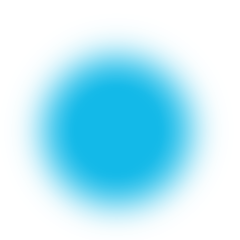
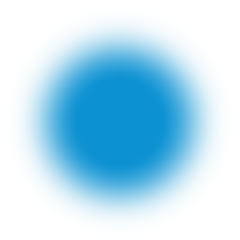
Add sliding ocean surface animation; Add wobble animation to entities; Adjust ocean depths PNGs; Add Midnight Zone/Ocean Bottom;

diff --git a/js/script.js b/js/script.js
@@ -6,6 +6,8 @@ document.addEventListener("DOMContentLoaded", () => {
   const readout = document.querySelector("[data-target]");
   const layerHost = document.querySelector("[data-depth-layers]");
   const entityHost = document.querySelector("[data-entities]");
+  const surface = document.querySelector("[data-surface]");
+  const tiles = document.querySelector("[data-surface-tiles]");
 
   const MAX_DEPTH = 10935; // Furthest scroll level, reflecting the Challenger Deep's level
   const SCROLL_SPEED = 10;  // One screen of scrolling = 5m
@@ -68,6 +70,48 @@ document.addEventListener("DOMContentLoaded", () => {
 
   gsap.set(layers, { scale: 0 });
 
+  // Surface settings
+  const SURFACE = {
+    tileSize: 256,
+    direction: { x: -1, y: -1 },
+    secondsPerTile: 12,
+    fadeOutDepth: 10
+  };
+
+  const T = SURFACE.tileSize;
+  gsap.set(tiles, {
+    top: -T,
+    left: -T,
+    width: `calc(100% + ${T * 2}px)`,
+    height: `calc(100% + ${T * 2}px)`,
+    backgroundSize: `${T}px ${T}px`
+  });
+
+  // Endless slide one tile, then jump back
+  gsap.fromTo(
+    tiles,
+    { x: 0, y: 0 },
+    {
+      x: SURFACE.direction.x * T,
+      y: SURFACE.direction.y * T,
+      duration: SURFACE.secondsPerTile,
+      ease: "none",
+      repeat: -1
+    }
+  );
+
+  // Adjust surface based on depth
+  tl.to(
+    surface,
+    {
+      scale: 1.6,
+      autoAlpha: 0,
+      duration: SURFACE.fadeOutDepth,
+      ease: "power1.in"
+    },
+    0
+  );
+
   const entityEls = entities.map((e) => {
     const img = document.createElement("img");
     img.className = "entity";
@@ -76,6 +120,21 @@ document.addEventListener("DOMContentLoaded", () => {
     img.style.width = `${e.width ?? 30}vmin`;
     entityHost.appendChild(img);
     return img;
+  });
+
+
+  entities.forEach((e, i) => {
+    if (e.wobble === false) return;
+    
+    gsap.to(entityEls[i], {
+      rotation: gsap.utils.random(-10, 10),
+      skewX: gsap.utils.random(-15, 15),
+      duration: gsap.utils.random(2, 4),
+      ease: "sine.inOut",
+      yoyo: true,
+      repeat: -1,
+      delay: i * 0.3
+    });
   });
 
   gsap.set(entityEls, { xPercent: -50, yPercent: -50, autoAlpha: 0 });
@@ -116,7 +175,12 @@ document.addEventListener("DOMContentLoaded", () => {
 
     // Fade in/out
     tl.to(el, { autoAlpha: 1, duration: fade, ease: "none" }, start);
-    tl.to(el, { autoAlpha: 0, duration: fade, ease: "none" }, start + e.span - fade);
+
+    // Add fadeout if hold isn't toggled
+    if (!e.hold)
+    {
+      tl.to(el, { autoAlpha: 0, duration: fade, ease: "none" }, start + e.span - fade);
+    }
   });
 
   tl.set({}, {}, MAX_DEPTH);

diff --git a/js/entities.js b/js/entities.js
@@ -14,14 +14,38 @@
 // width: entity's size at scale: 1
 // endScale: scale multiplier
 const ENTITIES = [
-{
-    src: "../assets/img/entities/killer_whale.png",
-    depth: 120,
-    span: 60,
-    x: 0,
-    y: -50,
-    offset: 0.1,
-    width: 40,
-    endScale: 2
-},
+    {
+        src: "../assets/img/entities/killer_whale.png",
+        depth: 120,
+        span: 60,
+        x: 0,
+        y: -50,
+        offset: 0.1,
+        width: 40,
+        endScale: 2,
+        wobble: true
+    },
+    {
+        src: "../assets/img/entities/midnight_zone_circle.png",
+        depth: 990,
+        span: 100,
+        x: 0,
+        y: 0,
+        offset: 0,
+        width: 360,
+        endScale: 6,
+        wobble: false
+    },
+    {
+        src: "../assets/img/entities/ocean_floor.png",
+        depth: 11035,
+        span: 100,
+        x: 0,
+        y: 0,
+        offset: 0,
+        width: 240,
+        endScale: 2,
+        wobble: false,
+        hold: true
+    }
 ];

diff --git a/style.css b/style.css
@@ -10,7 +10,7 @@ html::-webkit-scrollbar {
 }
 
 body {
-  background: #22bfeb;
+  background: #0CA2EF;
   color: #f4fff6;
   font-family: system-ui, sans-serif;
   margin: 0;
@@ -31,7 +31,7 @@ body {
 }
 
 /* put all non-circle assets (e.g. text) on top */
-.scene > :not(.depth):not(.entities) {
+.scene > :not(.depth):not(.entities):not(.surface) {
   position: relative;
   z-index: 1;
 }
@@ -51,6 +51,21 @@ body {
   height: 100vmax;
   max-width: none;
   will-change: transform, opacity;
+}
+
+.surface {
+  position: absolute;
+  inset: 0;
+  overflow: hidden;
+  z-index: 0;
+  pointer-events: none;
+}
+
+.surface-tiles {
+  position: absolute;
+  background-image: url("assets/img/ocean_texture.png");
+  background-repeat: repeat;
+  will-change: transform;
 }
 
 .entities {

diff --git a/index.html b/index.html
@@ -11,6 +11,9 @@
         <main class="experience">
             <section class="scene" aria-labelledby="scene-title">
                 <div class="depth" aria-hidden="true" data-depth-layers></div>
+                <div class="surface" aria-hidden="true" data-surface>
+                    <div class="surface-tiles" data-surface-tiles></div>
+                </div>
                 <div class="entities" aria-hidden="true" data-entities></div>
                 <p class="eyebrow">Interactive Web Experience</p>
                 <h1 id="scene-title">&lt;Insert Ocean Stuff Here&gt;</h1>
